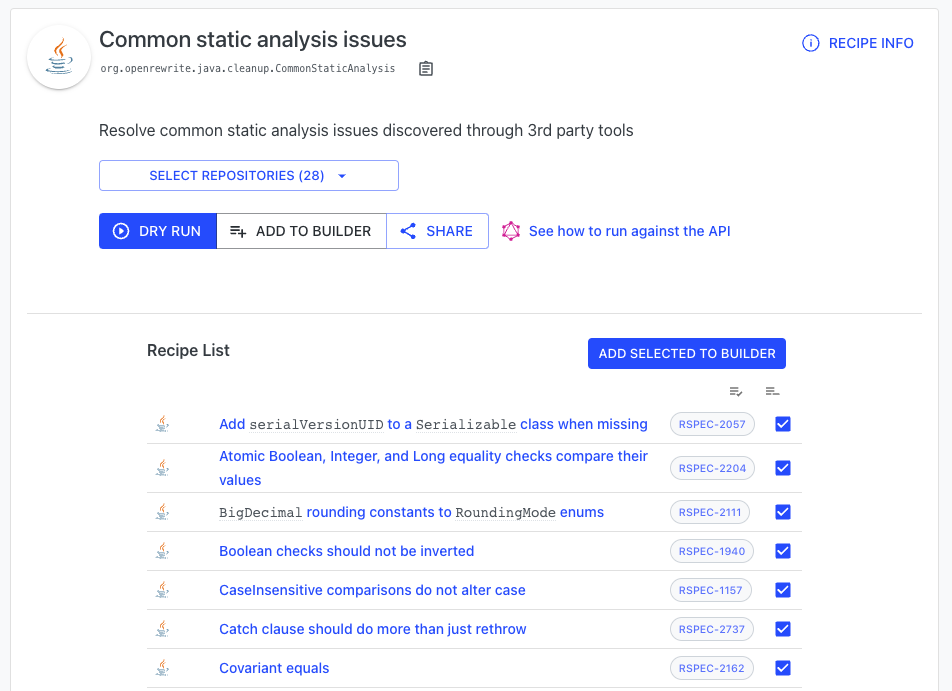
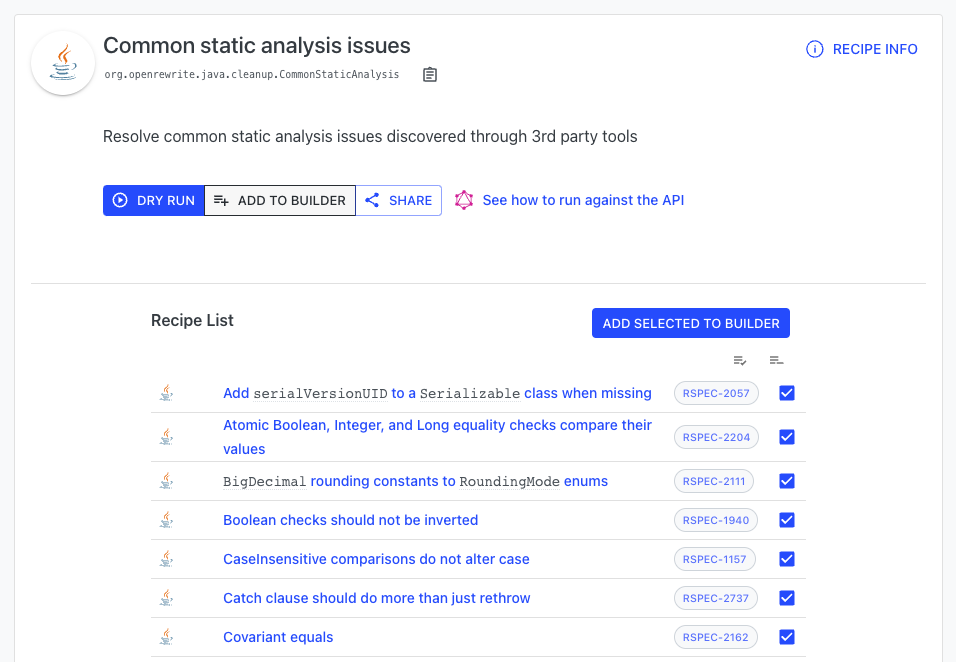
Clean up based on Sam's suggestion + UI changes

diff --git a/user-documentation/code-quality.md b/user-documentation/code-quality.md
@@ -1,12 +1,14 @@
 # Achieve and Maintain High Code Quality
 
-Every programming language has a vast number of conventions and rules that make up "ideal" code. While some of these conventions are stylistic, others can help prevent significant bugs like Null Pointer Exceptions. Unfortunately, even for the most experienced developers, it's extremely difficult to keep track of all of these and to follow them diligently in code. 
+Every programming language has a vast number of conventions and rules that make up "ideal" code. While some of these conventions are stylistic, others can help prevent significant bugs like `NullPointerExceptions`. Unfortunately, even for the most experienced developers, it's extremely difficult to keep track of all of these rules and to follow them diligently in code. And, even if they do, trying to ensure that other developers follow those same conventions can be like parents trying to tell their kids to clean up their rooms.
 
-Over the years, a variety of static analysis tools have been created to try and help, but these tools do not actually *fix* your code. Rather, they rely on developers to manually change every line that it warns about. If a new convention is standardized, this can easily result in thousands of lines that need to be changed across a vast number of repositories. 
+Over the years, a variety of static analysis tools have been created to try and help, but these tools do not actually _fix_ your code. Rather, they rely on developers to manually change every line that they warn about. If a new convention is standardized, this can easily result in thousands of lines that need to be changed across a
+ vast number of repositories.
 
-Fortunately, this is another area where Moderne shines. Thanks to a [comprehensive Abstract Syntax Tree](/concepts/abstract-syntax-trees.md), Moderne can improve your code by doing things like resolving common static analysis issues or changing it to utilize best practices. Furthermore, for each change made, you can learn _why_ it was changed so that you and your team can write better code in the future.
+Fortunately, Moderne can help with this tricky problem. Thanks to a [comprehensive Abstract Syntax Tree](/concepts/abstract-syntax-trees.md), Moderne can find _and_ fix static analysis and stylistic issues. Furthermore, for each change made, you can learn _why_ it was changed so that you and your team can write better code in the future. Instead of having to constantly remind your team to clean up the code, you can automate it!
 
 To help you get a better understanding of how Moderne can help improve your code quality, this guide will:
+
 * Walk you through running a recipe that fixes common static analysis issues
 * Show you how to learn what is wrong with the code 
 
@@ -15,6 +17,7 @@ To help you get a better understanding of how Moderne can help improve your code
 Moderne's [Common static analysis recipe](https://public.moderne.io/recipes/org.openrewrite.java.cleanup.CommonStaticAnalysis) looks for and fixes over 50 different types of issues in your code, all of which you can easily enable or disable to meet your needs.
 
 To get to this recipe:
+
 * From the home page, click on `Catalog` in the top left corner. This will take you to the recipe catalog.
 * From there, click on `Java` and then `Cleanup`.
 * At the top you should see a recipe called `Common static analysis issues`. If you click on it, it will expand slightly. Click on `More details` to be taken to [this](https://public.moderne.io/recipes/org.openrewrite.java.cleanup.CommonStaticAnalysis) page:
@@ -23,7 +26,7 @@ To get to this recipe:
 
 ### Running the recipe
 
-The bottom half of the page lists all of the recipes that will be run as part of this analysis. You can click on the checkbox next to any of them to enable or disable that particular recipe from being run. For most of them, there is also a tag like `RSPEC-1234` which links out to a Jira issue that goes into much more detail about the rule being implemented. For instance, clicking on `RSPEC-2057` next to `Add serialVersionUID to a Serializable class when missing` will take you [here](https://sonarsource.atlassian.net/browse/RSPEC-2057).
+The bottom half of the page lists all of the recipes that will be run as part of this analysis. You can click on the checkbox next to any of them to enable or disable that particular recipe from being run. You can also click on the recipes themselves to get more information about that specific recipe or to run just that one.
 
 When you're ready to run the recipe, select the repositories you wish to run on and then press `Dry Run`. You will then be redirected to a page that looks like this:
 
@@ -43,7 +46,4 @@ This will display a list of all of the recipes that affected the selected file a
 
 ![](../.gitbook/assets/example-change-recipes.png)
 
-If that explanation isn't enough, you can click on any of them to be taken directly to the recipe page. On most recipes, there are tags that link out to more comprehensive explanations about the rule. For instance, the `Equals avoids null` recipe links out to [RSPEC-1132](https://sonarsource.atlassian.net/browse/RSPEC-1132):
-
-![](../.gitbook/assets/equals-avoids-null-example.png)
-
+You can then click on the rule itself to be taken to a page where you can get more information about it or run just that recipe.
